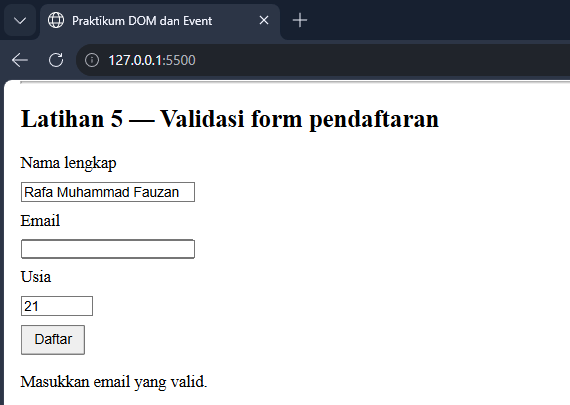
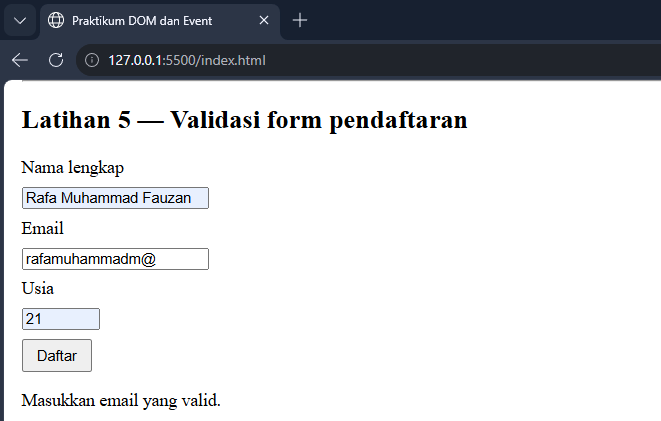
Praktikum 6: JavaScript DOM dan Event Handling

diff --git a/README.md b/README.md
@@ -237,13 +237,13 @@ form.addEventListener("submit", function (event) {
 
 **Screenshot - nama kosong:**
 
-![Latihan 5 nama kosong](screenshots/latihan5_nama.png)
+![Latihan 5 nama](screenshots/latihan5_nama.png)
 
 > Tempat screenshot: simpan gambar sebagai `screenshots/latihan5_nama.png`.
 
 **Screenshot - email tidak valid:**
 
-![Latihan 5 email kosong](screenshots/latihan5_email.png)
+![Latihan 5 email](screenshots/latihan5_email.png)
 
 > Tempat screenshot: simpan gambar sebagai `screenshots/latihan5_email.png`.
 
@@ -255,7 +255,7 @@ form.addEventListener("submit", function (event) {
 
 **Screenshot - semua valid:**
 
-![Latihan 5 valid](screenshots/mini_valid.jpeg)
+![Latihan 5 valid](screenshots/latihan5_valid.jpeg)
 
 > Tempat screenshot: simpan gambar sebagai `screenshots/latihan5_valid.png`.
 
